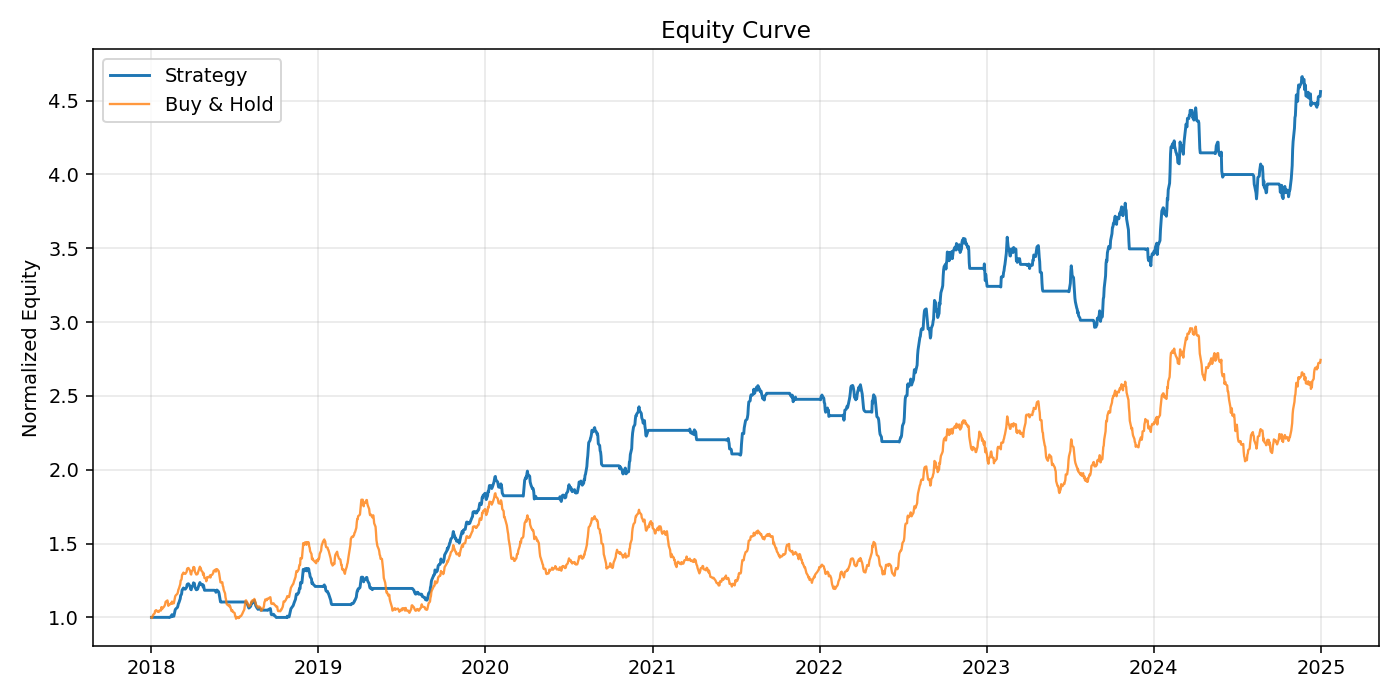
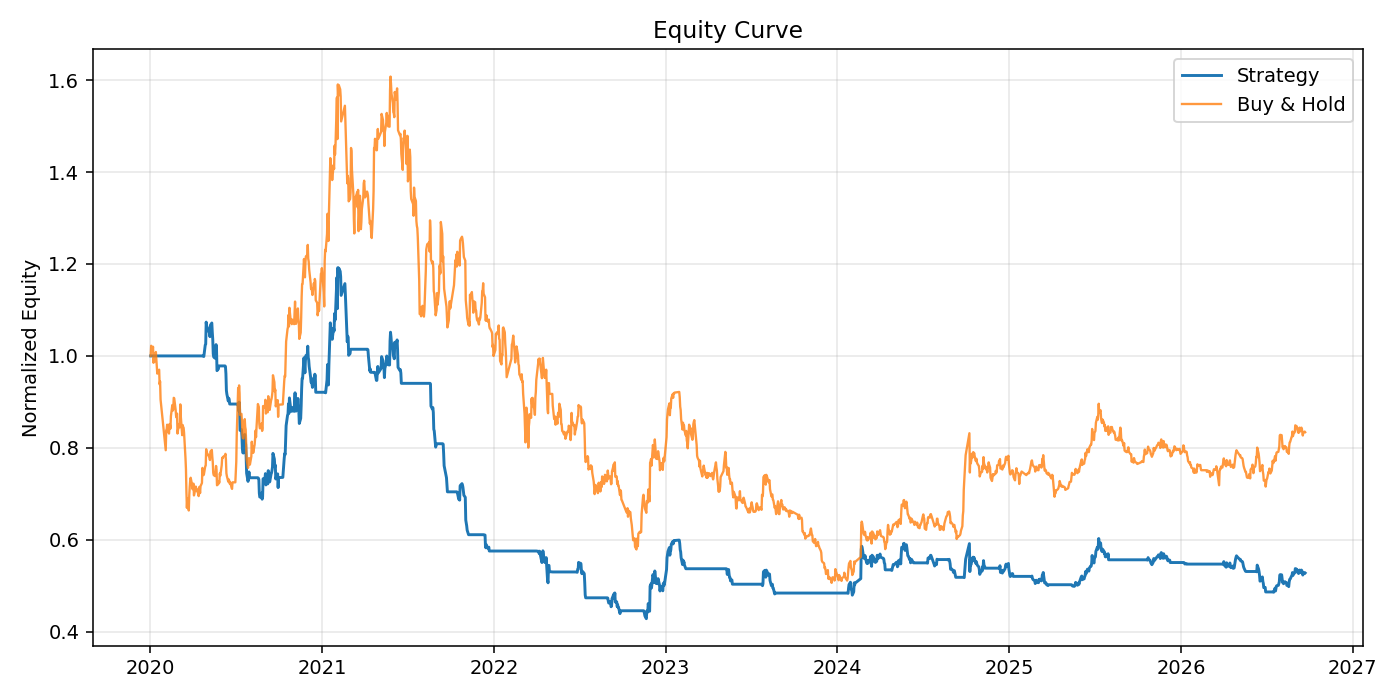
feat: real EM daily client + GitHub Actions sample backtest

diff --git a/src/em_client.py b/src/em_client.py
@@ -1,0 +1,100 @@
+"""自实现东财日线拉取（绕过 akshare 内部代理/UA 问题）。"""
+
+from __future__ import annotations
+
+import json
+import os
+import ssl
+import urllib.request
+from urllib.parse import urlencode
+
+import pandas as pd
+
+EM_URL = "https://push2his.eastmoney.com/api/qt/stock/kline/get"
+HEADERS = {
+    "User-Agent": (
+        "Mozilla/5.0 (Windows NT 10.0; Win64; x64) "
+        "AppleWebKit/537.36 (KHTML, like Gecko) "
+        "Chrome/122.0.0.0 Safari/537.36"
+    ),
+    "Accept": "*/*",
+    "Referer": "https://quote.eastmoney.com/",
+}
+
+
+def _no_proxy_opener() -> urllib.request.OpenerDirector:
+    """强制直连，忽略系统/环境代理。"""
+    proxy_handler = urllib.request.ProxyHandler({})
+    ctx = ssl.create_default_context()
+    https_handler = urllib.request.HTTPSHandler(context=ctx)
+    return urllib.request.build_opener(proxy_handler, https_handler)
+
+
+def fetch_em_daily(
+    symbol: str = "000001",
+    start: str = "20180101",
+    end: str | None = None,
+    market: int | None = None,
+) -> pd.DataFrame:
+    """
+    symbol: 6 位代码，如 000001 / 600519
+    market: 0=深市 1=沪市；None 时按首位推断
+    """
+    symbol = str(symbol).strip().zfill(6)
+    if market is None:
+        market = 1 if symbol.startswith(("6", "9", "5")) else 0
+    end = end or pd.Timestamp.today().strftime("%Y%m%d")
+
+    params = {
+        "secid": f"{market}.{symbol}",
+        "ut": "fa5fd1943c7b386f172d6893dbfba10b",
+        "fields1": "f1,f2,f3,f4,f5,f6",
+        "fields2": "f51,f52,f53,f54,f55,f56,f57,f58,f59,f60,f61",
+        "klt": "101",  # 日线
+        "fqt": "1",    # 前复权
+        "beg": str(start),
+        "end": str(end),
+        "lmt": "1000000",
+    }
+    url = f"{EM_URL}?{urlencode(params)}"
+    opener = _no_proxy_opener()
+    req = urllib.request.Request(url, headers=HEADERS)
+    # 短时清空代理环境变量
+    saved = {
+        k: os.environ.pop(k)
+        for k in ("HTTP_PROXY", "HTTPS_PROXY", "http_proxy", "https_proxy", "ALL_PROXY", "all_proxy")
+        if k in os.environ
+    }
+    try:
+        with opener.open(req, timeout=20) as resp:
+            raw = resp.read().decode("utf-8")
+    finally:
+        for k, v in saved.items():
+            os.environ[k] = v
+
+    payload = json.loads(raw)
+    data = (payload or {}).get("data") or {}
+    klines = data.get("klines") or []
+    if not klines:
+        raise RuntimeError(f"东财无数据: {payload}")
+
+    rows = []
+    for line in klines:
+        # date,open,close,high,low,volume,amount,amp,pct,chg,turnover
+        parts = line.split(",")
+        if len(parts) < 6:
+            continue
+        rows.append(
+            {
+                "date": parts[0],
+                "open": float(parts[1]),
+                "close": float(parts[2]),
+                "high": float(parts[3]),
+                "low": float(parts[4]),
+                "volume": float(parts[5]),
+            }
+        )
+    df = pd.DataFrame(rows)
+    df["date"] = pd.to_datetime(df["date"])
+    df = df.set_index("date").sort_index()
+    return df

diff --git a/src/data_loader.py b/src/data_loader.py
@@ -2,6 +2,7 @@
 
 from __future__ import annotations
 
+import os
 from pathlib import Path
 
 import pandas as pd
@@ -42,15 +43,48 @@ def _normalize_ohlcv(df: pd.DataFrame) -> pd.DataFrame:
 
 
 def load_akshare(symbol: str, start: str = "20180101", end: str | None = None) -> pd.DataFrame:
+    """
+    拉取 A 股前复权日线。
+    优先自实现东财客户端（直连、更稳）；失败再回落 akshare。
+    """
+    try:
+        from .em_client import fetch_em_daily
+
+        return fetch_em_daily(symbol=symbol, start=start, end=end)
+    except Exception as primary_exc:  # noqa: BLE001
+        print(f"[data] em_client 失败，尝试 akshare: {primary_exc}")
+
     import akshare as ak
 
-    df = ak.stock_zh_a_hist(
-        symbol=symbol,
-        period="daily",
-        start_date=start,
-        end_date=end or pd.Timestamp.today().strftime("%Y%m%d"),
-        adjust="qfq",
+    proxy_keys = (
+        "HTTP_PROXY",
+        "HTTPS_PROXY",
+        "ALL_PROXY",
+        "http_proxy",
+        "https_proxy",
+        "all_proxy",
     )
+    saved = {k: os.environ.pop(k) for k in proxy_keys if k in os.environ}
+    old_environ_no_proxy = os.environ.get("NO_PROXY")
+    os.environ["NO_PROXY"] = "*"
+    os.environ["no_proxy"] = "*"
+    try:
+        df = ak.stock_zh_a_hist(
+            symbol=symbol,
+            period="daily",
+            start_date=start,
+            end_date=end or pd.Timestamp.today().strftime("%Y%m%d"),
+            adjust="qfq",
+        )
+    finally:
+        for k, v in saved.items():
+            os.environ[k] = v
+        if old_environ_no_proxy is None:
+            os.environ.pop("NO_PROXY", None)
+            os.environ.pop("no_proxy", None)
+        else:
+            os.environ["NO_PROXY"] = old_environ_no_proxy
+            os.environ["no_proxy"] = old_environ_no_proxy
     return _normalize_ohlcv(df)
 
 
